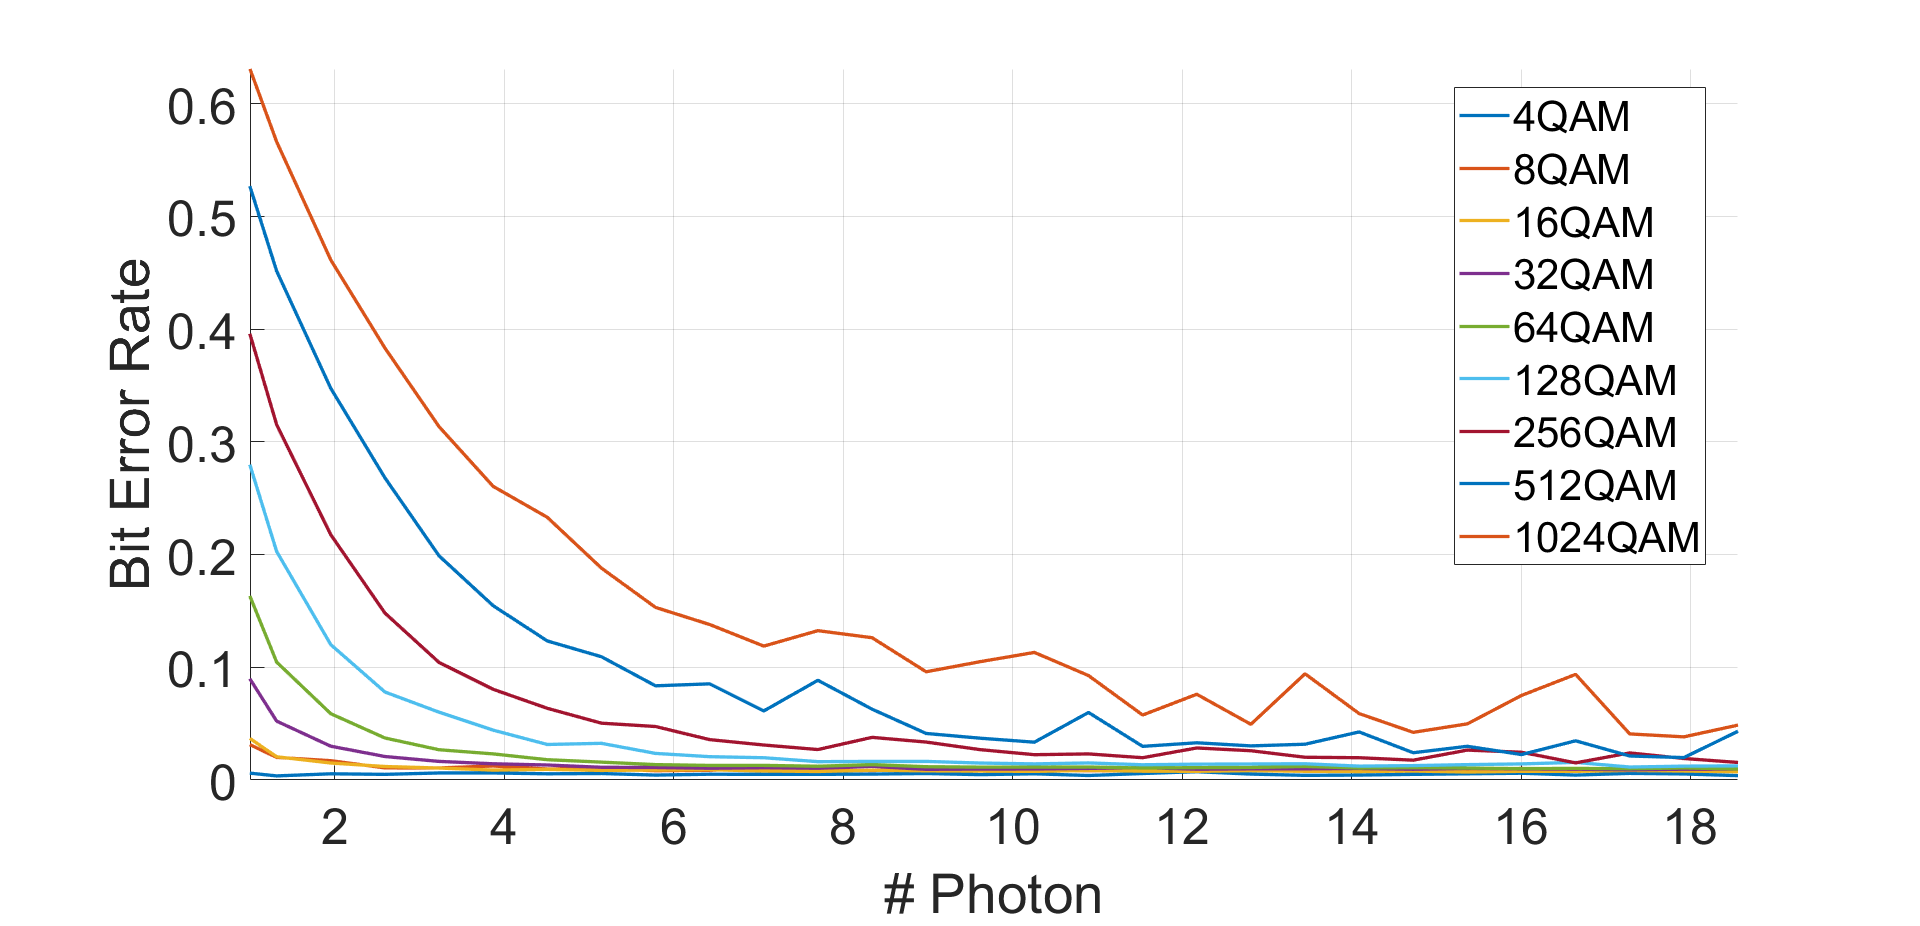
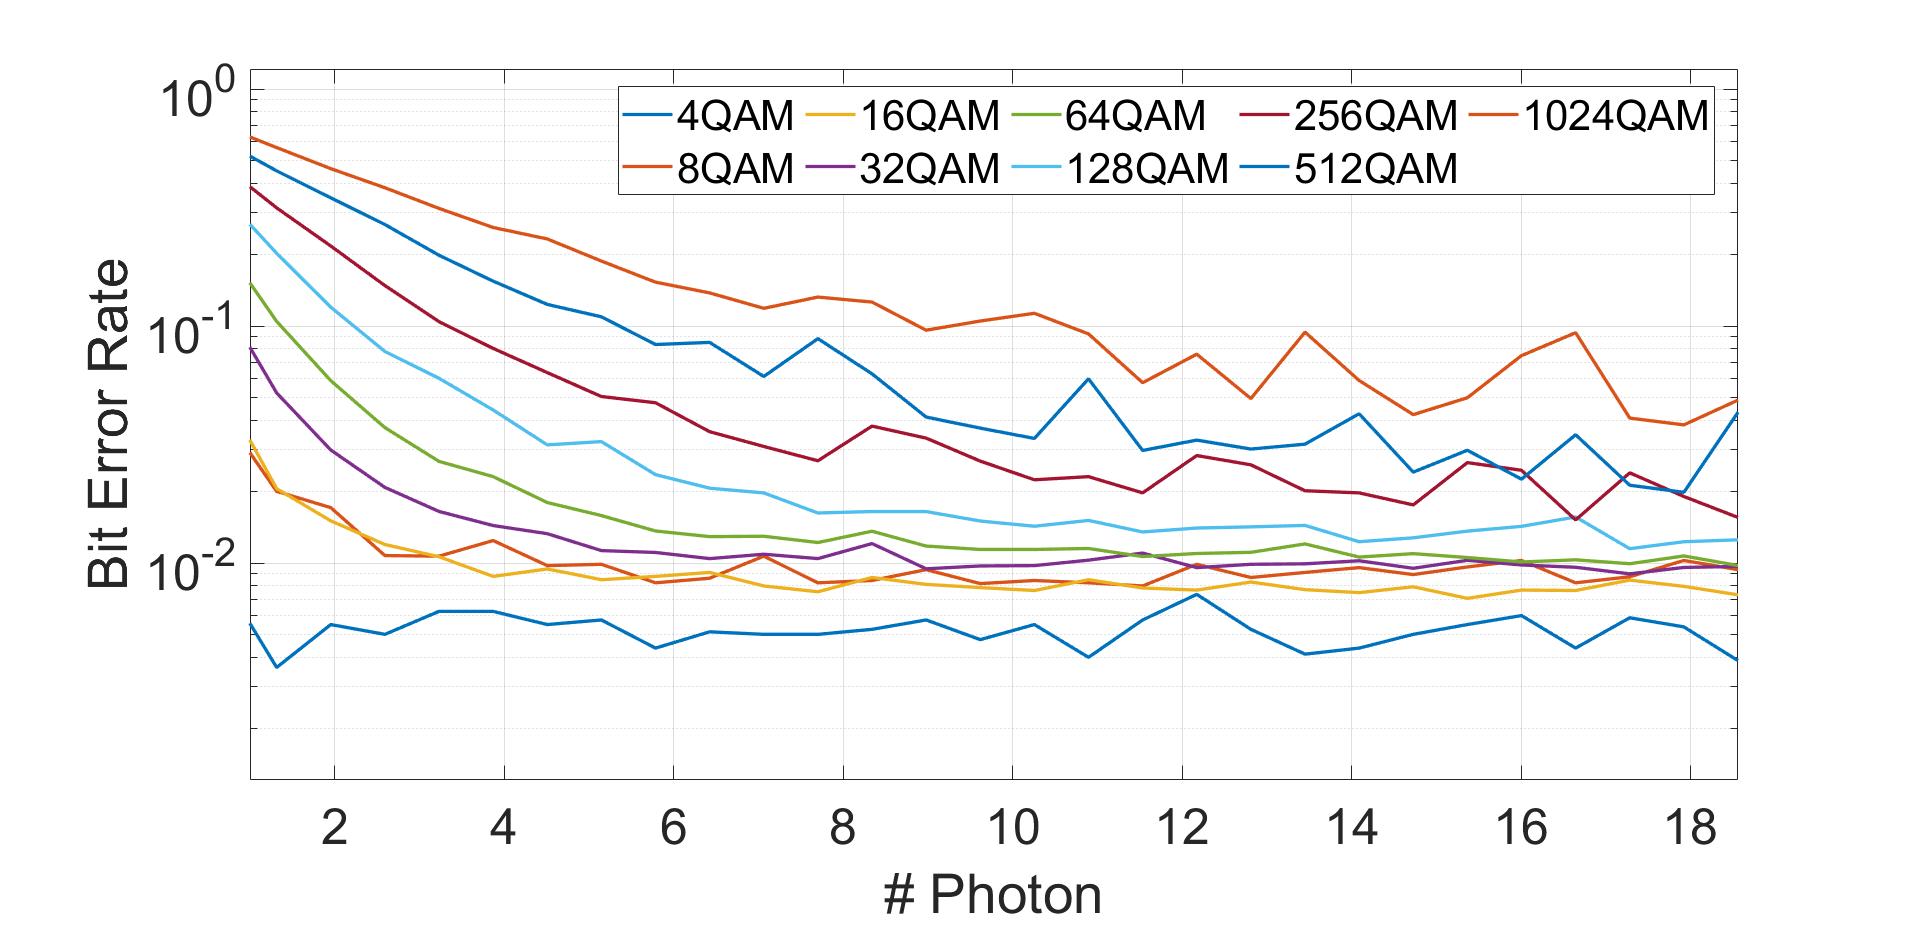
modified the qber plot

diff --git a/united_plots.m b/united_plots.m
@@ -104,14 +104,14 @@ ax = gca; % Get the current axis
 ax.FontSize = 30;
 
 figure("Name", "Bit error rate")
-hold on
 for i=2:10
-plot(max_phot, q(i,:), "DisplayName",2^i +"QAM", LineWidth=2)
+    semilogy(max_phot, q(i,:), "DisplayName",2^i +"QAM", LineWidth=2)
+    hold on
 end
 xlim([1, max_phot(end)])
 xlabel("# Photon", FontSize=45)
 ylabel("Bit Error Rate", FontSize=45)
-legend("FontSize",25)
+legend("FontSize",25, 'Location', 'best', 'NumColumns', ceil(numel(findall(gca, 'Type', 'line')) / 2));
 grid on
 ax = gca; % Get the current axis
 ax.FontSize = 30;

diff --git a/QAM_QKD_channel_capacity_plots.m b/QAM_QKD_channel_capacity_plots.m
@@ -37,7 +37,7 @@ maximum_field = 1e1;
 
 %% LO DATA
 lo.linewidth = 1*kHz;
-lo.PSD = -inf;
+lo.PSD = -80;
 lo.lambda = 1550*nm;
 lo.field = 1e1;
 fc = c/lo.lambda;
